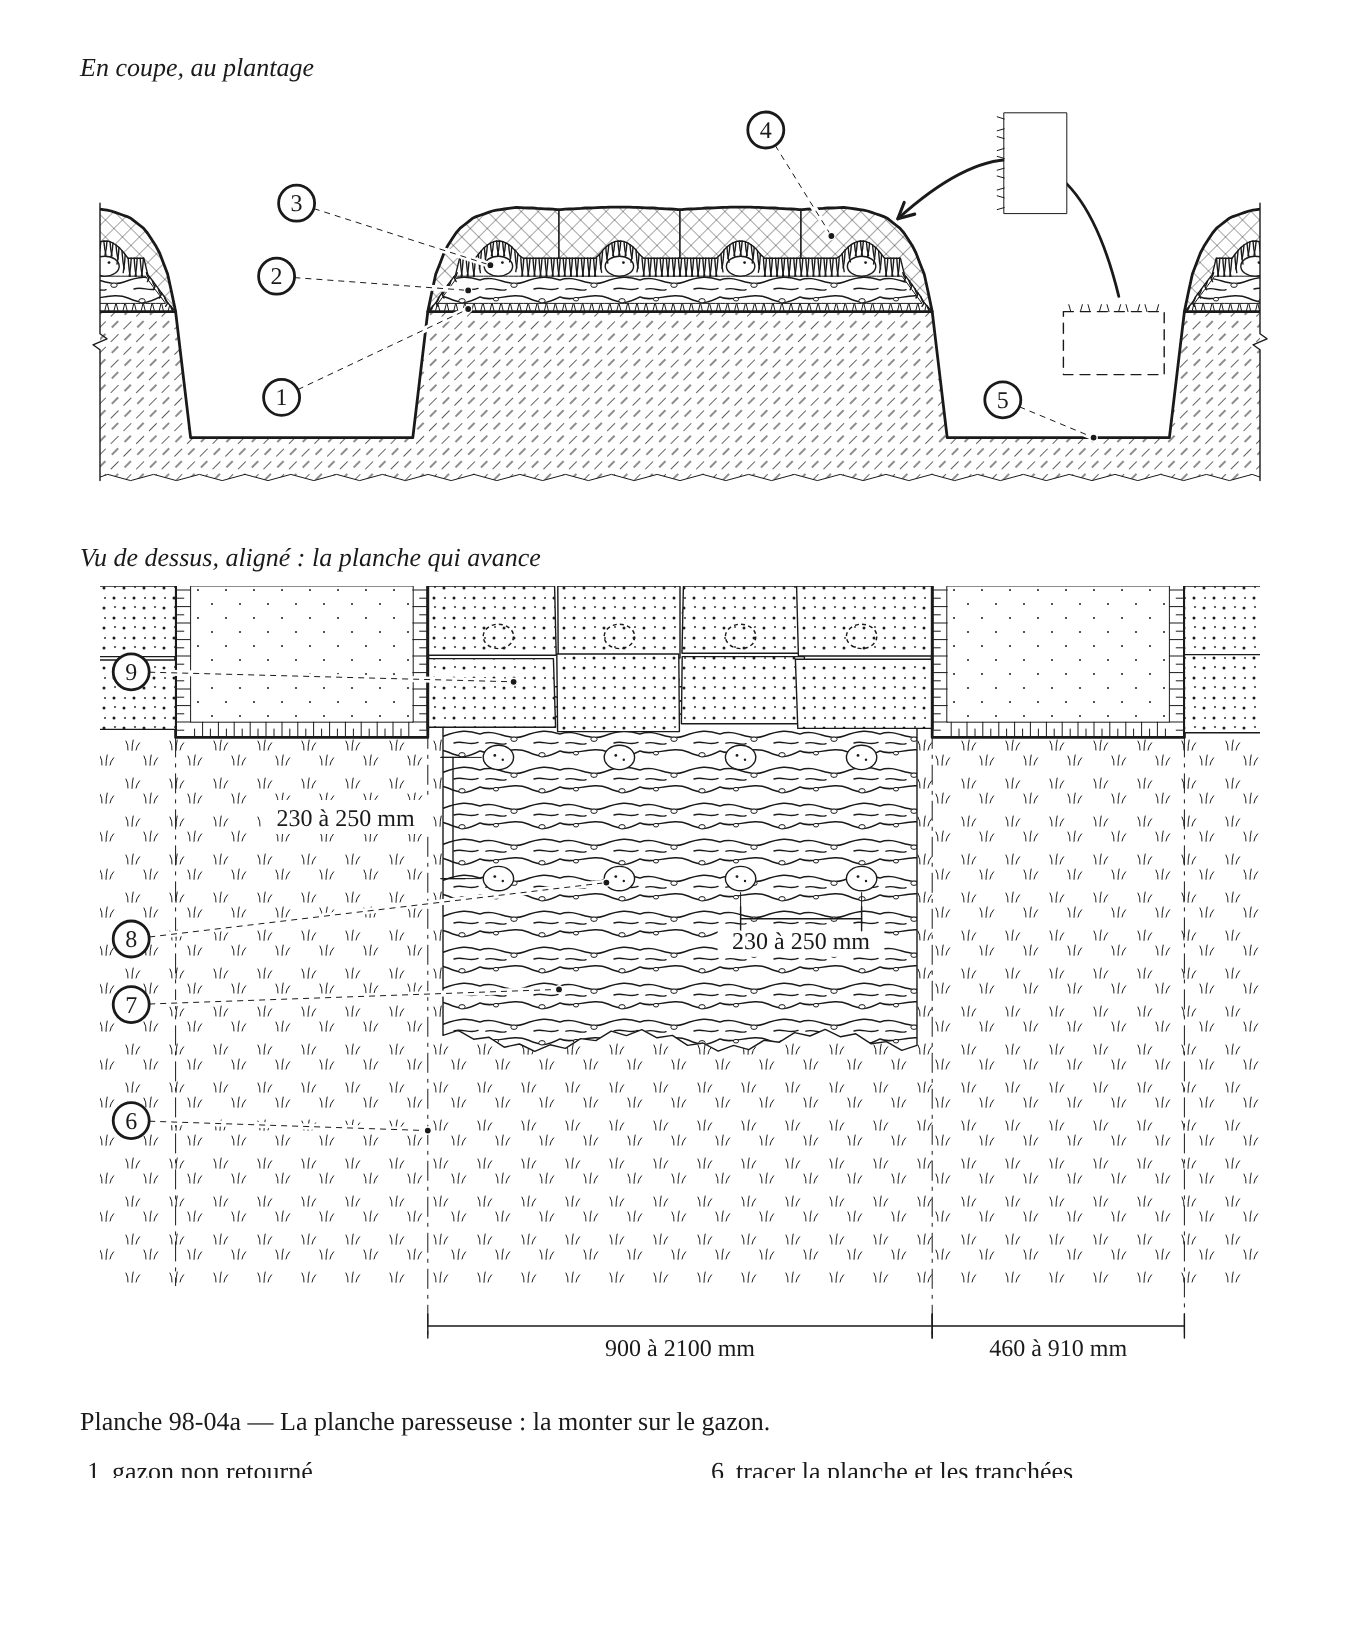
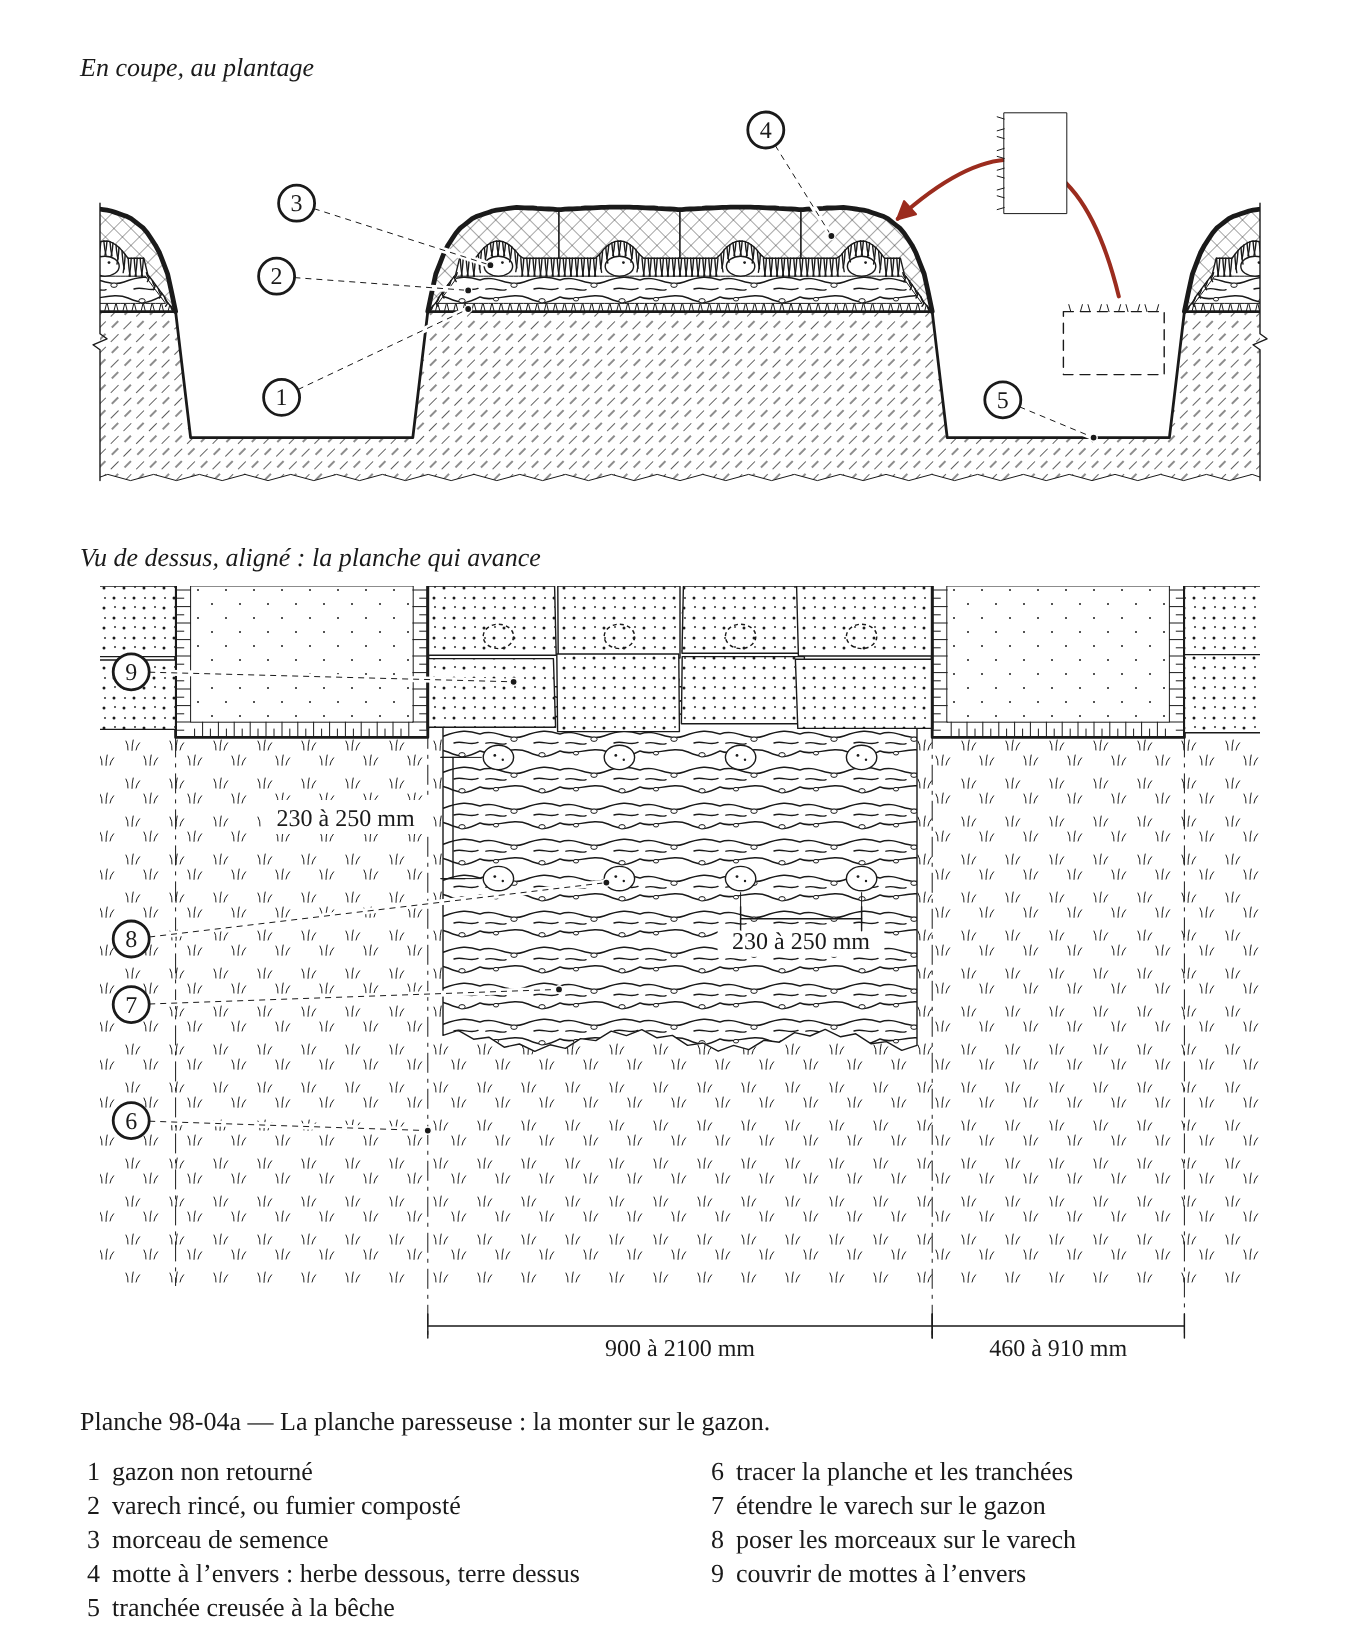
Charte : lot 8, paquet 2 (7 planches)
Claude-Session: https://claude.ai/code/session_014xDY5FLxFXDJt3nYAYznSZ

diff --git a/images/planches-src/86-04.js b/images/planches-src/86-04.js
@@ -12,6 +12,11 @@
 // l'alternateur ; excitation : + batterie → interrupteur → ampoule témoin → borne du témoin ;
 // sortie : gros câble au + ; borne S au + ; boîtier au − ; voltmètre sur les deux bornes.
 // Les deux poulies tournent dans le même sens (courroie ouverte).
+//
+// La charte : pas de gris, la planche n'a que des élévations de face, un plan, un schéma et deux
+// coupes hachurées. Le rouge : deux points à contrôler, le fil tendu qui touche la face de la
+// poulie de l'alternateur (les arbres alignés), et l'interrupteur du témoin, ouvert à l'arrêt.
+// Aucun geste fléché : rien ne change.
 
 module.exports = (h) => {
   const r1 = v => Math.round(v * 10) / 10;
@@ -195,6 +200,8 @@ module.exports = (h) => {
     o.push(h.ligne(...P(22, fy), ...P(358, fy), h.a.detail));
     o.push(h.cercle(...P(20, fy), 3.2 * s, h.a.plein));
     o.push(h.cercle(...P(360, fy), 3.2 * s, h.a.plein));
+    // le point à contrôler : le fil touche la face de la poulie de l'alternateur
+    o.push(h.controle(...P(Ca[0], fy), 15 * s));
     return o.join('\n');
   }
 
@@ -264,6 +271,8 @@ module.exports = (h) => {
     o.push(poly(Q([[334, yT - 9], [362, yT - 9], [362, yT + 9], [334, yT + 9]])));
     o.push(h.ligne(...P(348, yT - 9), ...P(356, yT - 26), h.a.contour));
     o.push(disque(P(356, yT - 27), 3.5 * s));
+    // le point à contrôler : l'interrupteur, ouvert à l'arrêt
+    o.push(h.controle(...P(350, yT - 9), 20 * s));
     o.push(fil(Q([[362, yT], [440, yT], [491, Pp[1] + 1]])));
     // Voltmètre sur les deux bornes.
     const V = { x: 498, y: 8, l: 70, h: 44 };

diff --git a/images/planches-src/98-04a.js b/images/planches-src/98-04a.js
@@ -95,7 +95,8 @@ module.exports = (h) => {
       const d = i % 2 ? 4 : -4;
       o.push(h.path(`M${pt(Q(x, z0))} Q${pt(Q(x + d * 0.3, z0 - lon * 0.6))} ${pt(Q(x + d, z0 - lon))}`, h.a.detail));
     });
-    o.push(h.chemin(pas(-500, 500, 8).map((x) => Q(x, T(x))), h.a.arete));
+    // La charte : le dessus de la planche montée est l'objet de la vue, son contour pèse (2,4)
+    o.push(h.chemin(pas(-500, 500, 8).map((x) => Q(x, T(x))), h.a.contour));
     return o.join('\n');
   };
 
@@ -155,7 +156,8 @@ module.exports = (h) => {
           const g0 = q(760, 0), g1 = q(960, -125);
           o.push(h.rect(g0[0], g0[1], g1[0] - g0[0], g1[1] - g0[1], h.a.cache));
           pas(775, 945, 20).forEach((x, i) => o.push(h.ligne(...q(x, 0), ...q(x + (i % 2 ? 4 : -4), 14), h.a.fin)));
-          o.push(h.fleche(`M${pt(q(870, 30))} Q${pt(q(760, 480))} ${pt(q(432, 184))}`));
+          // La charte : le geste, la motte levée de la tranchée et posée à l'envers sur la planche
+          o.push(h.geste(`M${pt(q(870, 30))} Q${pt(q(760, 480))} ${pt(q(432, 184))}`));
           // au sommet de l'arc, la même motte tournée d'un quart de tour : l'herbe passe sur le côté
           const mx = 705, mz = 294, m0 = q(mx - 62, mz + 100), m1 = q(mx + 62, mz - 100);
           o.push(h.rect(m0[0], m0[1], m1[0] - m0[0], m1[1] - m0[1], 'fill="#FFFFFF" ' + h.a.fin.replace('fill="none" ', '')));

diff --git a/images/planches-src/110-03.js b/images/planches-src/110-03.js
@@ -46,8 +46,8 @@ module.exports = (h) => {
       out.push(h.path(peg, h.a.contour));
       out.push(h.ligne(xm - 3, top + 8, xm - 3, y0 - 4, h.a.detail));
       out.push(h.ligne(xm + 4, top + 14, xm + 4, y0 - 10, h.a.detail));
-      // On chasse vers le bas ; le tenon part vers le fond.
-      out.push(h.fleche(`M ${cr + 18} ${PT - 48} V ${PT - 14}`));
+      // On chasse vers le bas (la charte : le geste en rouge) ; le tenon part vers le fond.
+      out.push(h.geste(`M ${cr + 18} ${PT - 48} V ${PT - 14}`));
       out.push(h.fleche(`M ${RX - 18} ${RB + 20} H ${SH + 40}`));
     } else {
       const b = st.off, top = PT - 14, bot = PB + 5, tip = PB + 22;
@@ -57,6 +57,8 @@ module.exports = (h) => {
       out.push(h.path(peg, h.a.blanc));
       out.push(h.path(peg, h.a.contour));
       out.push(h.path(`M ${xm + 2} ${top + 6} V ${TT - 7} C ${xm + 2} ${TT} ${xm + 2 + b} ${TT} ${xm + 2 + b} ${TT + 7} V ${TB - 7} C ${xm + 2 + b} ${TB} ${xm + 2} ${TB} ${xm + 2} ${TB + 7} V ${bot - 2}`, h.a.detail));
+      // la charte : le point à contrôler, l'épaulement au contact du poteau, sans jour
+      out.push(h.controle(PR, cy - 76, 11));
     }
     return out.join('\n');
   }
